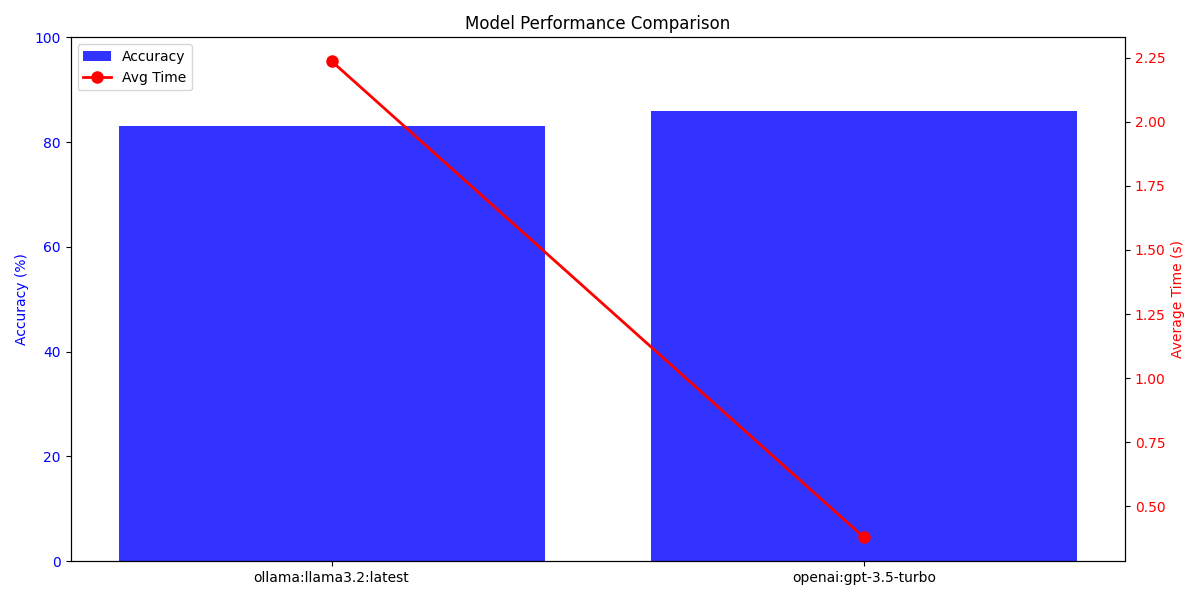
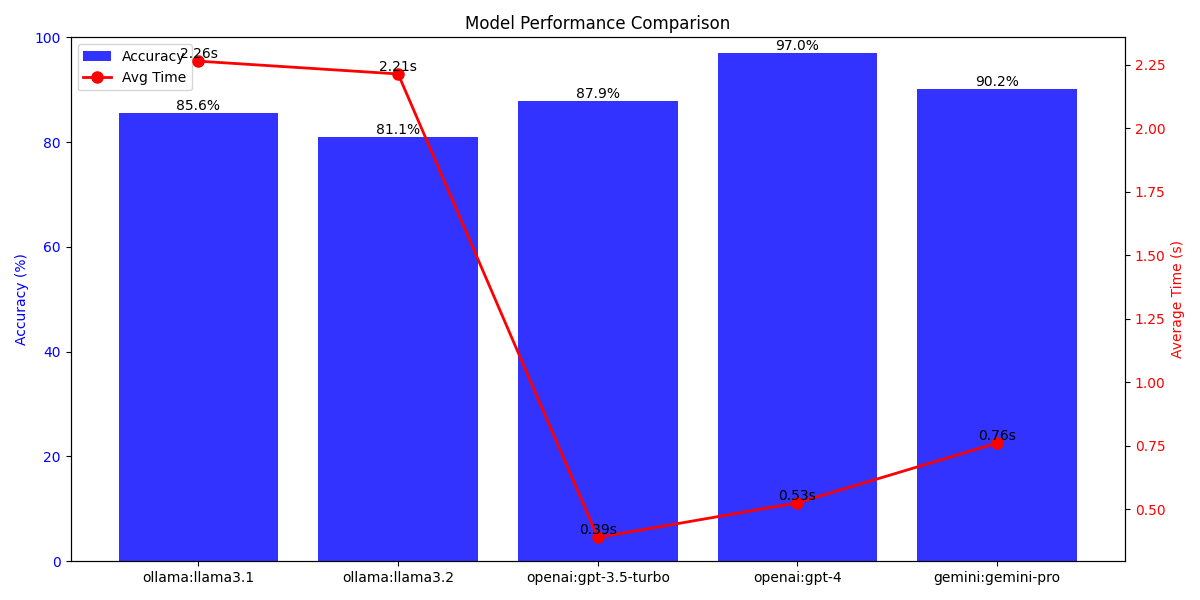
Full run, llama3.1, llama3.2, gpt-3.5-turbo, gpt-4 and gemini-pro:latest. Updated graph

diff --git a/main.py b/main.py
@@ -224,9 +224,11 @@ if __name__ == "__main__":
 
     # Initialize evaluator with models to test
     models = [
-        #"ollama:llama3.2",             # Ollama model
+        #"ollama:llama3.1",             # Ollama model
+        "ollama:llama3.2",             # Ollama model
         #"openai:gpt-3.5-turbo",      # OpenAI model
-        "gemini:gemini-pro",         # Gemini model
+        #"openai:gpt-4",      # OpenAI model
+        #"gemini:gemini-pro",         # Gemini model
         # Add more models as needed
     ]
 
